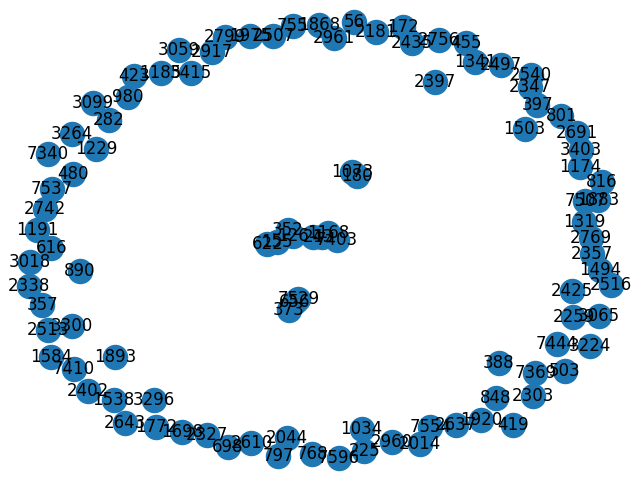
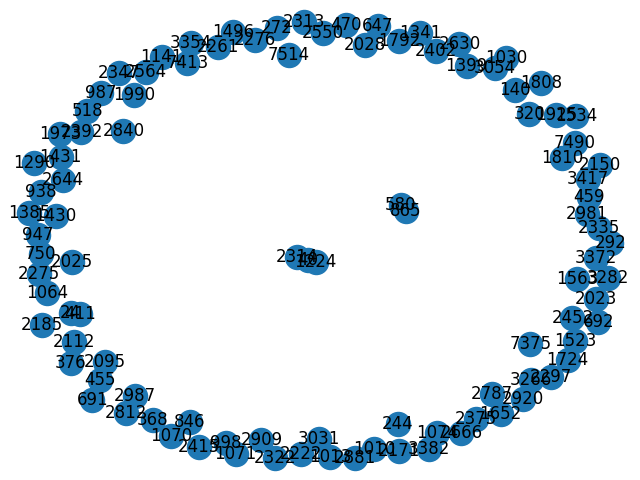
fix problem in power iteration

diff --git a/sampling.py b/sampling.py
@@ -7,6 +7,8 @@ import math
 import matplotlib.pyplot as plt
 from bokeh.plotting import figure, output_file, show
 import plotly.graph_objects as go
+from matplotlib import pylab
+
 
 
 #loading data to dataframe
@@ -24,8 +26,9 @@ def node_sampling(Graph , k):
     sampled_nodes = random.sample(Graph.nodes, k)
     sampled_graph = Graph.subgraph(sampled_nodes)
     print(sampled_nodes)
-    nx.draw(sampled_graph , with_labels = True)
-    plt.savefig("filename.png")
+    nx.draw_networkx(sampled_graph , node_size=1000, with_labels = True)
+    plt.savefig("node-sampling.png")
+   # save_graph(sampled_graph,"my_graph.pdf")
     return sampled_graph
 
 # edge sampling
@@ -56,7 +59,7 @@ def edge_sampling(G):
         # Check for every node's neighbour in sample set of nodes
             G1.add_edge(x, y)
             # Add edge between the sampled nodes
-    nx.draw(G1 , with_labels = True)
+    nx.draw_networkx(G1 , node_size=1000, with_labels = True)
     plt.savefig("edge-sampling.png")
     return G1
 
@@ -94,23 +97,45 @@ def random_walking(complete_graph , growth_size , T , nodes_to_sample):
             if ((sampled_graph.number_of_edges() - edges_before_t_iter) < growth_size):
                 curr_node = random.randint(0, nr_nodes - 1)
             edges_before_t_iter = sampled_graph.number_of_edges()
-    nx.draw(sampled_graph , with_labels = True)
+    nx.draw_networkx(sampled_graph , node_size=1000, with_labels = True)
     plt.savefig("random-walk.png")
     return sampled_graph
 
 #random_walking(Graph , 2 , 100 , 100)
+
+# def save_graph(graph,file_name):
+#     #initialze Figure
+#     plt.figure(num=None, figsize=(20, 20), dpi=80)
+#     plt.axis('off')
+#     fig = plt.figure(1)
+#     pos = nx.spring_layout(graph)
+#     nx.draw_networkx_nodes(graph,pos)
+#     nx.draw_networkx_edges(graph,pos)
+#     nx.draw_networkx_labels(graph,pos)
+
+#     cut = 1.00
+#     xmax = cut * max(xx for xx, yy in pos.values())
+#     ymax = cut * max(yy for xx, yy in pos.values())
+#     plt.xlim(0, xmax)
+#     plt.ylim(0, ymax)
+
+#     plt.savefig(file_name,bbox_inches="tight")
+#     pylab.close()
+#     del fig
+
+
 def find_important_nodes(Graph):
     degree=nx.degree_centrality(Graph)
     degreeArray = sorted(degree, key=degree.get, reverse=True)[:30]
 
    
-    centrality = nx.eigenvector_centrality(Graph)
+    centrality = nx.eigenvector_centrality_numpy(Graph)
     eigenvectorArray = sorted(centrality, key=centrality.get, reverse=True)[:30]
     
-    #betCent = nx.betweenness_centrality(Graph, normalized=False, endpoints=True , weight = 'weight')
-    #betweennessArray = sorted(betCent, key=betCent.get, reverse=True)[:30]
-    #important_nodes=list(set(degreeArray)|set(eigenvectorArray) | set(betweennessArray))
-    important_nodes=list(set(degreeArray)|set(eigenvectorArray))
+    betCent = nx.betweenness_centrality(Graph, normalized=False, endpoints=True , weight = 'weight')
+    betweennessArray = sorted(betCent, key=betCent.get, reverse=True)[:30]
+    important_nodes=list(set(degreeArray)|set(eigenvectorArray) | set(betweennessArray))
+    #important_nodes=list(set(degreeArray)|set(eigenvectorArray))
     print(important_nodes)
     return important_nodes
 
